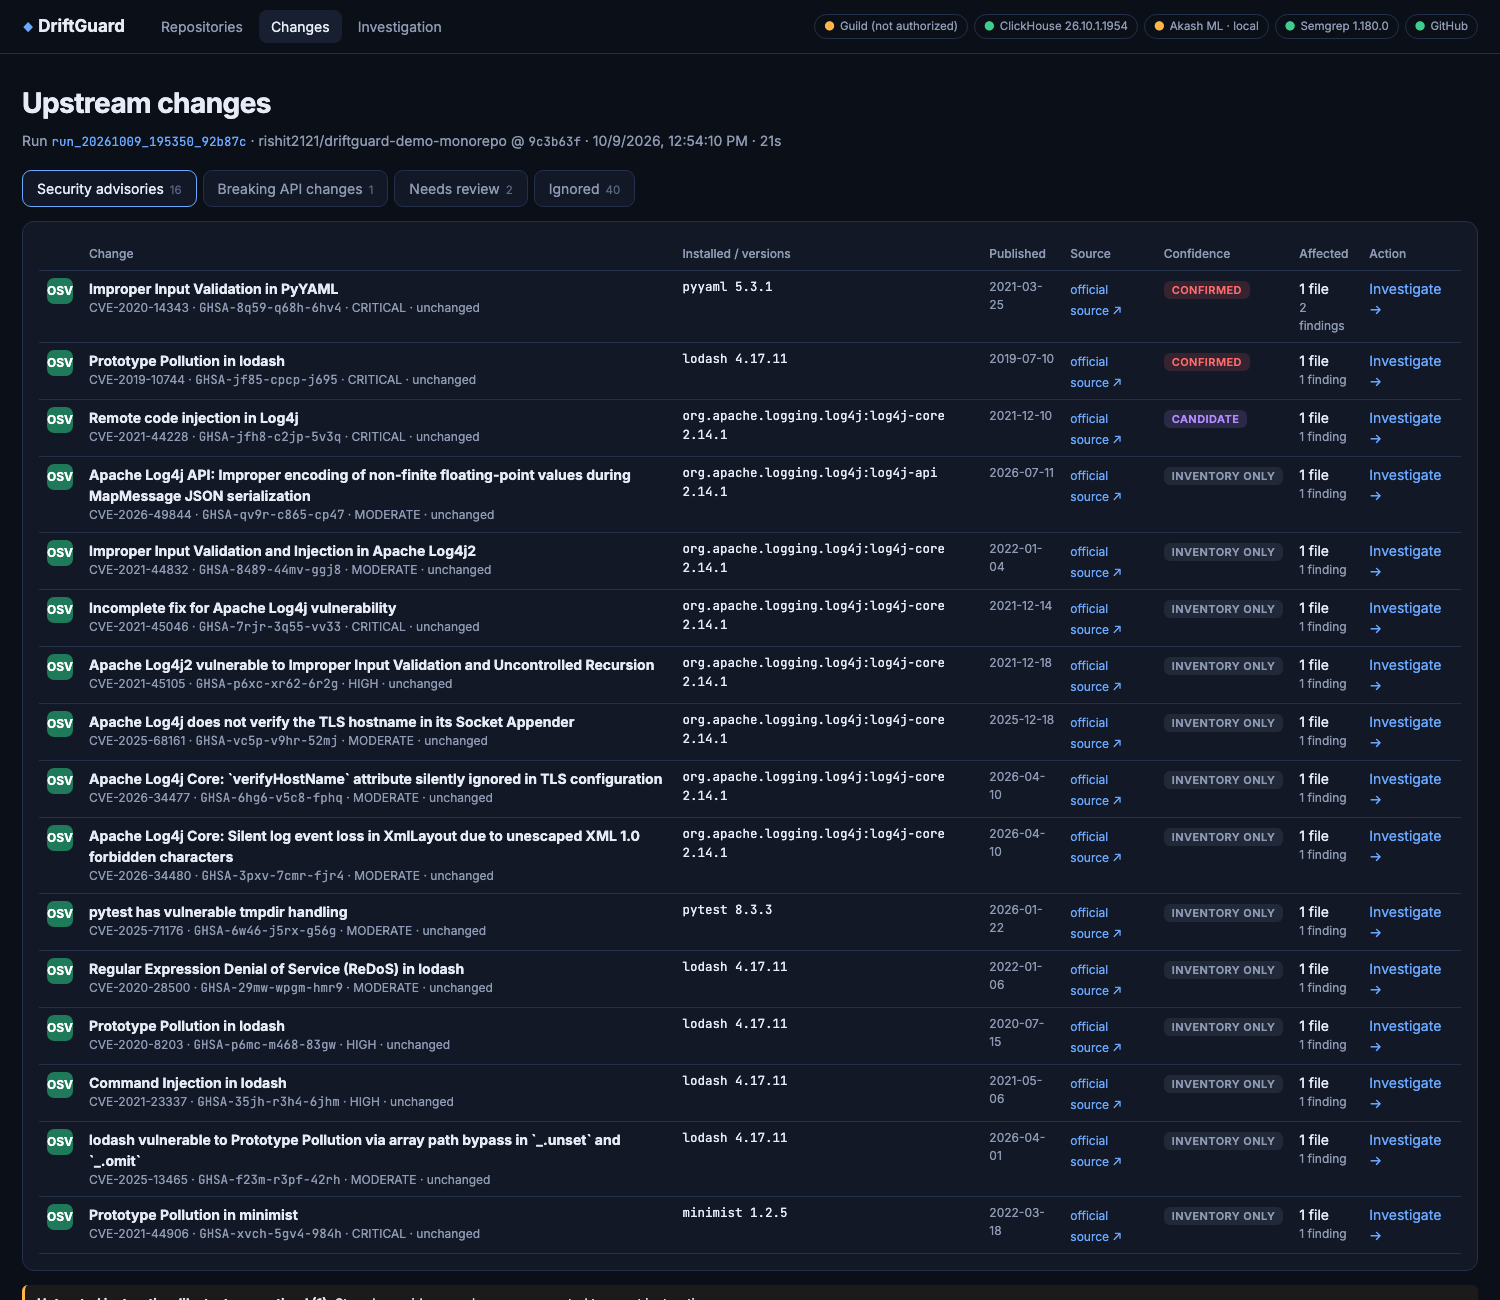
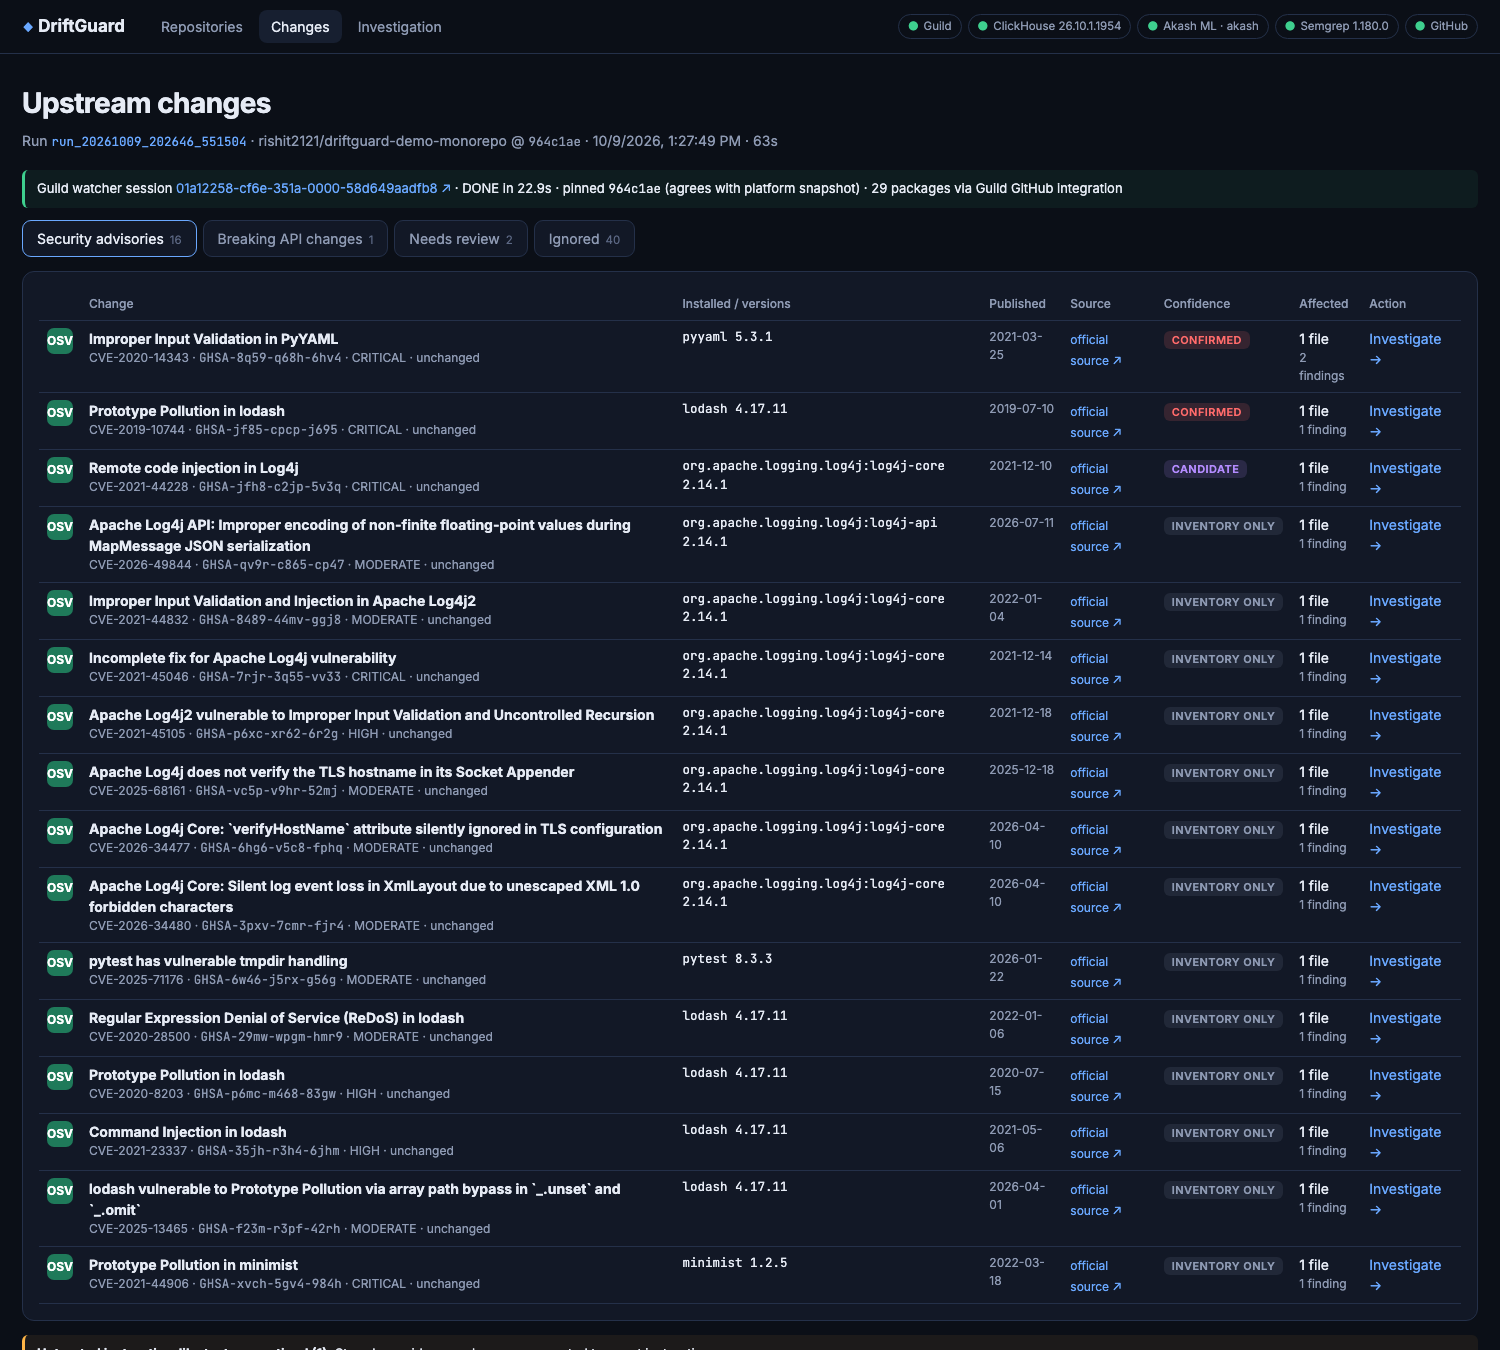
Akash deployment live; refreshed screenshots

diff --git a/README.md b/README.md
@@ -72,7 +72,7 @@ authority. Semgrep provides the code-level evidence. Regression tests are the de
 |---|---|---|---|
 | **Guild.ai** | Watcher agent (source discovery) and remediator agent (opens the draft PR via Guild's GitHub integration) | **Live.** `rishit.agrawal121~driftguard-watcher` and `~driftguard-remediator` are published in the `driftguard` workspace. Each investigation starts a Guild watcher session that pins the SHA, reads the lockfiles through Guild's GitHub integration, and fetches Stripe/OSV through Guild's fetch tool. Its commit SHA and SHA-256 hashes are cross-checked against the platform's own fetch. [PR #4](https://github.com/rishit2121/driftguard-demo-monorepo/pull/4) was opened by the Guild remediator (`app/guild-ai-platform`). PRs #1–#3 were opened earlier, before Guild was authorized, by the disclosed direct-GitHub fallback. | Guild session links in the timeline, the finding page and the PR body |
 | **ClickHouse** | Source snapshot history, code/doc vectors, cosine retrieval, findings, run timeline, query latency | **Live** (ClickHouse 26.10 server; set `CLICKHOUSE_HOST/…` for ClickHouse Cloud) | UI → Investigation: every query shows ClickHouse-reported `elapsed_ms` and `rows_read` |
-| **Akash** | Embedding + ranking inference service | Container, SDL ([`ml_service/deploy.yaml`](ml_service/deploy.yaml)) and a GHCR build workflow are ready. **Not yet deployed to Akash** (it needs a funded Akash wallet / Console account). Until it is, the same container contract runs locally and the UI labels it `deployment: local`. It is not claimed as Akash-hosted. | `/health.deployment`, UI header pill |
+| **Akash** | Embedding + ranking inference service | **Live on Akash.** Deployment dseq `1791577117700` on an audited provider (Sweden), 2 CPU / 3Gi, about $0.14/day, bearer-token auth. `/health` reports `deployment: akash`. Akash vectors match the local build (cosine 1.000 on probe texts), so stored embeddings are never mixed across model versions. Typical `/embed` is about 40 ms on the server and about 450 ms round trip from the US. The deployment has a 48-hour spend cap (`runtimeLimitHours`). Extend it or redeploy with `ml_service/deploy.yaml` (the image is built by the `ml-image` workflow). | `/health`, UI header pill, `ml_health`/`ml_rank` timeline stages with model version and latency |
 | **Semgrep** | Code-level localization and security patterns | **Live**: 5 rules, each with `ruleid:`/`ok:` tests (`semgrep --test semgrep-rules`). Scans run on the read-only checkout at the pinned SHA. | Rule YAML + matched expression on every finding |
 | GitHub (action target) | Snapshot by SHA, fix branches, draft PRs, CI | **Live** | PR links + check runs |
 
@@ -146,7 +146,7 @@ Configuration (environment variables):
 |---|---|---|
 | `DRIFTGUARD_REPO` / `DRIFTGUARD_BRANCH` | `rishit2121/driftguard-demo-monorepo` / `main` | The only repository the platform will scan or write to |
 | `CLICKHOUSE_HOST/PORT/USER/PASSWORD/SECURE` | `localhost:8123` | Use ClickHouse Cloud by setting `CLICKHOUSE_SECURE=1` |
-| `ML_SERVICE_URL`, `ML_SERVICE_TOKEN` | `http://localhost:8100` | Point at the Akash deployment |
+| `ML_SERVICE_URL`, `ML_SERVICE_TOKEN` | `http://localhost:8100` | Point at the Akash deployment (settings may also be placed in a gitignored `.env`) |
 | `DRIFTGUARD_PR_EXECUTOR` | `github` | `guild` routes PR creation through the Guild remediator agent |
 | `GUILD_REMEDIATOR_AGENT`, `GUILD_WATCHER_AGENT` | – | `owner~agent` names after `guild agent save --publish` |
 
